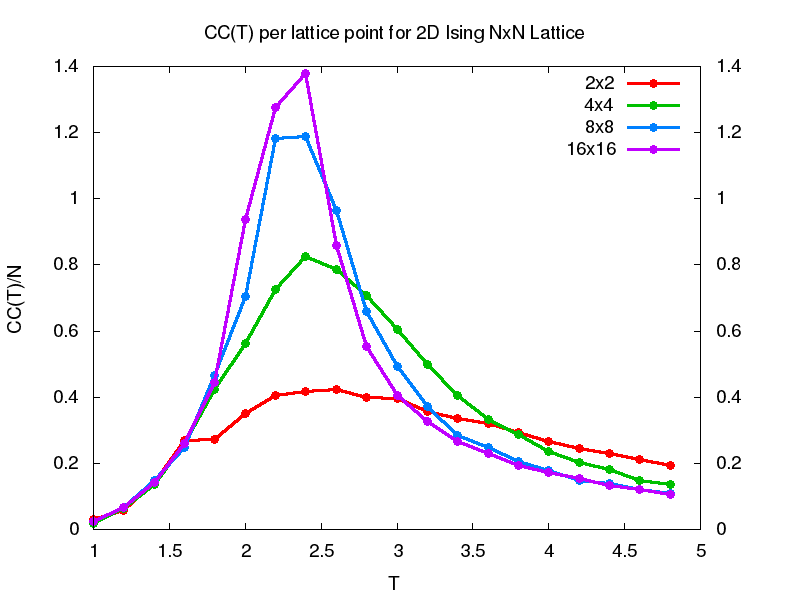
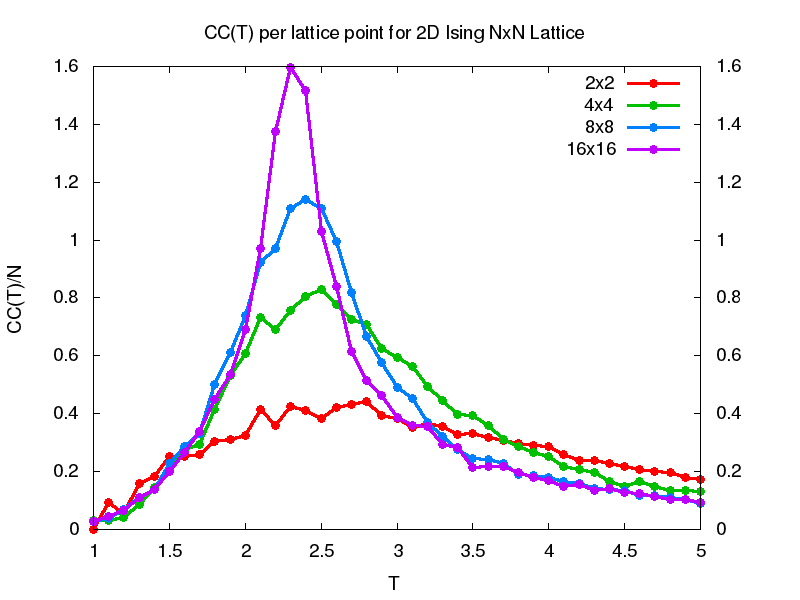
Travelers: some important changes: 1) change of function MC_simulation(...,) new parameter introduced: enum field ISING_METHOD_TYPE which allows to choose between METHOD_METROPOLIS or METHOD_WOLFF. The METHOD_METROPOLIS is default value. 2) added new function cycle() which proper algorithm for given

diff --git a/IsingModelSimulations5_2/Ising2D.cpp b/IsingModelSimulations5_2/Ising2D.cpp
@@ -112,14 +112,85 @@ vector<short> Ising2D::Metropolis_cycle() {
     return S; //The state of the system after one lattice sweep is returned
 }
 
+vector<short> Ising2D::Wolff_cycle(){
+    
+    // cout << "Not implemented::Ising2D::Wolff_cycle" << endl;
+    /* Domain : Monte Carlo simulation
+     * Perform N Wolff updates of cluster of spins 
+     * i.e. one MC cycle or sweep*/
+    int* border = new int[N];
+    int bindex = 0;
+    int oldspin, newspin;
+    double padd = 1 - exp(-2 / T); //probability of adding a site to border
+    int site, siteL, siteR, siteU, siteD,site_i,site_j;
+    
 
-void Ising2D::MC_simulation(int therm_t, int prod_t, int measure_f) {
+    for (int i = 0; i < N; i++) {
+
+        site_i = (int) (nx * RNG::drandom(seed2));
+        site_j = (int) (nx * RNG::drandom(seed2));
+        site  = To2D(site_i,site_j);
+        
+        // periodic representation
+        siteL = To2D((site_i - 1 + nx)%nx,site_j); 
+        siteR = To2D((site_i + 1     )%nx,site_j); 
+        siteD = To2D(site_i,(site_j- 1 + nx)%nx); 
+        siteU = To2D(site_i,(site_j+1      )%nx);         
+        
+        bindex = 0;
+        border[bindex] = site;        
+        oldspin =  S[site];
+        newspin = -S[site];
+        S[site] = newspin;
+
+        while (bindex >= 0) {
+            site = border[bindex--];
+            site_i = Xfrom2D(site);
+            site_j = Yfrom2D(site);
+            
+            siteL = To2D((site_i - 1 + nx)%nx,site_j); 
+            if (S[siteL] == oldspin)
+                if (RNG::drandom(seed2) < padd) {                    
+                    border[++bindex] = siteL;
+                    S[siteL] = newspin;
+                }
+           
+            siteR = To2D((site_i + 1     )%nx,site_j); 
+            if (S[siteR] == oldspin)
+                if (RNG::drandom(seed2) < padd) {                    
+                     border[++bindex] = siteR;
+                    S[siteR] = newspin;
+                }
+            
+            siteD = To2D(site_i,(site_j- 1 + nx)%nx);
+            if (S[siteD] == oldspin)
+                if (RNG::drandom(seed2) < padd) {
+                    border[++bindex] = siteD;                    
+                    S[siteD] = newspin;
+                }
+           
+            siteU = To2D(site_i,(site_j+1      )%nx);        
+            if (S[siteU] == oldspin)
+                if (RNG::drandom(seed2) < padd) {                    
+                    border[++bindex] = siteU;
+                    S[siteU] = newspin;
+                }
+        }
+    }
+    
+    delete[] border;
+    return S;
+    
+}
+
+
+void Ising2D::MC_simulation(int therm_t, int prod_t, int measure_f,ISING_METHOD_TYPE mt) {
     /* Domain : Metropolis simulation of Ising 2d model
      * Perform desired number of MC cycles
      * therm_t = thermalization cycles
      * prod_t  = production cycles
      * Store raw results (states of the chain) in the disk file. */
-
+    ising_method_type = mt;
     RNG::initializeRNG(seed1); // initializes integer random number generator
     
 //    cout << "----------------------------------------" << endl;
@@ -132,7 +203,7 @@ void Ising2D::MC_simulation(int therm_t, int prod_t, int measure_f) {
     //*** INITIAL MC CYCLES ***
     //Thermalization of initial non-equilibrium state.
     for (int t = 0; t < therm_t; t++) {
-        Metropolis_cycle();
+        cycle();
     }
 //    cout << "Thermalization done..." << endl;
     //SOME LOCAL VARIABLES; ADD NEW WHEN NECESSARY
@@ -153,11 +224,11 @@ void Ising2D::MC_simulation(int therm_t, int prod_t, int measure_f) {
     int progress = 0;
     for (int t = 0; t < prod_t; t++) {
         if (!(t % measure_f)) {
-            s = Metropolis_cycle();
+            s = cycle();
             for (int i = 0; i < N; i++)
                 DATA << s[i] << " ";
         } else
-            Metropolis_cycle();
+                cycle();
         /*
          Please make copy of this file (Ising5_2.cpp)
          */

diff --git a/IsingModelSimulations5_2/Ising5_2.cpp b/IsingModelSimulations5_2/Ising5_2.cpp
@@ -25,10 +25,10 @@
  *** HANG BACK THE FUNCTIONS YOU HAVE CREATED ON OUR EXCHANGE BLACKBOARD.*/
 
 
-#include<stack> //LIFO (Last In First Out) container for Wolff MC algorithm
+
 
 #include "Ising5_2.h"
-#include "Tools.h"
+//#include "Tools.h"
 
 
 
@@ -51,8 +51,9 @@ Ising::Ising(int NN, double TT, double hh, double p, int maxGd, int maxTsep) {
     N = NN; //set length of the chain
     T = TT; //set temperature
     h = hh; //set magnetic field
-    maxGdist = maxGd;
+    maxGdist          = maxGd;
     maxTimeseparation = maxTsep;
+    ising_method_type      = METHOD_METROPOLIS; // default method for calulation
 
     //INITIALISATIONS 
     //***ADD OTHER VARIABLES AND INITIALISATIONS WHEN NECESSARY 
@@ -89,6 +90,7 @@ Ising::Ising(int NN, double TT, double hh, double p, int maxGd, int maxTsep) {
     }
 
 }
+
 
 Ising::~Ising() {
 }
@@ -130,7 +132,7 @@ vector<short> Ising::Metropolis_cycle() {
 }
 
 
-void Ising::Wolff_cycle() {
+vector<short> Ising::Wolff_cycle() {
     /* Domain : Monte Carlo simulation
      * Perform N Wolff updates of cluster of spins 
      * i.e. one MC cycle or sweep*/
@@ -169,25 +171,35 @@ void Ising::Wolff_cycle() {
 
         }
     }
+    return S;
+}
+
+vector<short> Ising::cycle(){
+
+    switch(ising_method_type){
+        case  METHOD_METROPOLIS: return Metropolis_cycle();break;
+        case  METHOD_WOLFF:      return Wolff_cycle();break;
+        default: return Metropolis_cycle();
+    }
+    
 }
 
 
 
-
-
-void Ising::MC_simulation(int therm_t, int prod_t, int measure_f) {
+void Ising::MC_simulation(int therm_t, int prod_t, int measure_f,ISING_METHOD_TYPE mt) {
     /* Domain : Metropolis simulation of Ising 1d model
      * Perform desired number of MC cycles
      * therm_t = thermalization cycles
      * prod_t  = production cycles
      * Store raw results (states of the chain) in the disk file. */
 
+    ising_method_type = mt;    
     RNG::initializeRNG(seed1); // initializes integer random number generator
 
     //*** INITIAL MC CYCLES ***
     //Thermalization of initial non-equilibrium state.
     for (int t = 0; t < therm_t; t++) {
-        Metropolis_cycle();
+        cycle();
     }
 
     //SOME LOCAL VARIABLES; ADD NEW WHEN NECESSARY
@@ -207,11 +219,11 @@ void Ising::MC_simulation(int therm_t, int prod_t, int measure_f) {
     vector<short> s(N, 0);
     for (int t = 0; t < prod_t; t++) {
         if (!(t % measure_f)) {
-            s = Metropolis_cycle();
+            s = cycle();
             for (int i = 0; i < N; i++)
                 DATA << s[i] << " ";
         } else
-            Metropolis_cycle();
+            cycle();
         /*
          Please make copy of this file (Ising5_2.cpp)
          */
@@ -286,7 +298,7 @@ double Ising::CC() {
     int n=0;
     for (int t = 0; t < 100000; t++) {        
         
-            Metropolis_cycle();
+            cycle();
             double ee = E();            
             meanE  += ee;
             meanEsq+= ee*ee;

diff --git a/IsingModelSimulations5_2/Ising5_2.h b/IsingModelSimulations5_2/Ising5_2.h
@@ -22,8 +22,8 @@
 #include <cstring>		// Includes c_strings for file names
 #include <cmath>
 #include <iomanip>
+#include<stack> //LIFO (Last In First Out) container for Wolff MC algorithm
 #include "RNG.h"
-
 
 using namespace std;
 
@@ -38,12 +38,16 @@ enum ISING_ERROR_TYPE{
     ERROR_CC, // calculate error of specific heat
     ERROR_OP  // calculate error of order parameter - op
 };
-
+// enum filed allow to chose which method to use
+enum ISING_METHOD_TYPE{
+    METHOD_METROPOLIS,
+    METHOD_WOLFF
+};
     
 class Ising {
 public:
     Ising(){};
-    Ising(int NN,double TT, double hh, double p, int maxGd, int maxTsep); //Constructor of the class
+    Ising(int NN,double TT, double hh, double p, int maxGd, int maxTsep); //Constructor of the class    
     virtual ~Ising();
     
     //***Ising spins chain and environmental parameters
@@ -108,8 +112,9 @@ public:
     
 //*** MONTE CARLO ENGINS, MC WRAPPER, SOME MC PARAMETERS 
     virtual vector<short> Metropolis_cycle();
-    void Wolff_cycle();
-    virtual void MC_simulation(int therm_t, int prod_t, int measure_f);
+    virtual vector<short> Wolff_cycle();
+    vector<short> cycle(); // performs the Metropolis_cycle or Wolff_cycle depending on ising_method_type value
+    virtual void MC_simulation(int therm_t, int prod_t, int measure_f,ISING_METHOD_TYPE mt = METHOD_METROPOLIS);
     int measure_f;      //frequency of measures, indicate number of MC cycles separating two consecutive measures
     int therm_t;        //thermalization time = number of initial cycles to thermalize (equilibrate) the initial state
     
@@ -120,6 +125,7 @@ public:
 
     int nb_rejected;
     double rejected;
+    ISING_METHOD_TYPE ising_method_type;
     
 
 };

diff --git a/IsingModelSimulations5_2/Tests/IsingTestCC2D.h b/IsingModelSimulations5_2/Tests/IsingTestCC2D.h
@@ -35,9 +35,9 @@ class IsingTestCC2D : public IsingTest {
         //SIMULATION INPUT DATA
         int chainLength      = 2;        
         double magneticField = 0.0;
-        int therm_t          = 1000;   //thermalization time
+        int therm_t          =  50;   //thermalization time
         int measure_f        = 1;     //measure frequency
-        int prod_t           =10000;  //productiontime
+        int prod_t           =1000;  //productiontime
         int maxGdist         = 10;     //domain of correlation function extends from 0 to maxGdist-1
         int maxTsep          = 2;
         double initState     = 0.7;    //values between 0.5 and 1.0
@@ -45,7 +45,7 @@ class IsingTestCC2D : public IsingTest {
                 
         vector<vector<double> > dataNxN[4];
         vector<double> dataT;
-        for(double T = 1.0 ; T < 5.0 ; T += 0.2 ){ 
+        for(double T = 1.0 ; T < 5.0 ; T += 0.1 ){ 
             dataT.push_back(T);
         }
         // ---------------------------------------------------------
@@ -59,7 +59,7 @@ class IsingTestCC2D : public IsingTest {
                 double T = dataT[t];
                 cout << "T=" << T << "\t:";
                 Ising2D lattice2d(chainLength, T, magneticField, initState, maxGdist, maxTsep);        
-                lattice2d.MC_simulation(therm_t, prod_t, measure_f);
+                lattice2d.MC_simulation(therm_t, prod_t, measure_f,METHOD_WOLFF);
                 double error = lattice2d.ERROR(gettotalFname().c_str(), ERROR_CHI);
                 double cc    = lattice2d.CC(gettotalFname().c_str());                
                 vector<double> data;

diff --git a/IsingModelSimulations5_2/Tests/IsingTestM2D.h b/IsingModelSimulations5_2/Tests/IsingTestM2D.h
@@ -50,7 +50,7 @@ class IsingTestM2D : public IsingTest {
                 
         vector<double> dataNxN[4];
         vector<double> dataT;
-        for(double T = 1.0 ; T < 5.0 ; T += 0.2 ){ 
+        for(double T = 1.0 ; T < 5.0 ; T += 0.1 ){ 
             dataT.push_back(T);
         }
         // ---------------------------------------------------------
@@ -64,7 +64,7 @@ class IsingTestM2D : public IsingTest {
                 double T = dataT[t];
                 cout << "T=" << T << "\t:";
                 Ising2D lattice2d(chainLength, T, magneticField, initState, maxGdist, maxTsep);        
-                lattice2d.MC_simulation(therm_t, prod_t, measure_f);
+                lattice2d.MC_simulation(therm_t, prod_t, measure_f,METHOD_METROPOLIS);
                 double M = lattice2d.order_parameter(gettotalFname().c_str());
                 dataNxN[i].push_back(M);
             }// end of for            
@@ -77,7 +77,7 @@ class IsingTestM2D : public IsingTest {
         for(int t = 0 ; t < dataT.size() ; t++ ){
              data_out << std::scientific << dataT[t] << "\t";   
              for(int i = 0; i < 4 ; i++){
-                 data_out << dataNxN[i][t] << "\t";
+                 data_out << fabs(dataNxN[i][t]) << "\t";
              }
              data_out << endl;
         }

diff --git a/IsingModelSimulations5_2/IsingMain5_2.cpp b/IsingModelSimulations5_2/IsingMain5_2.cpp
@@ -39,8 +39,8 @@ int main(int argc, char** argv) {
     
     // IsingTestChi isingTestChi;     //  Ising1D test of Chi in function of T
     // IsingTestError isingTestError; //  Ising1D test of ERROR funtion for Chi for different prod_t
-    // IsingTestCC2D isingTestCC2D;   //  Ising2D test of CC in function of T for different lattices
-     IsingTestM2D isingTestM2D;     //  Ising2D test of M in function of T for different lattices
+     IsingTestCC2D isingTestCC2D;   //  Ising2D test of CC in function of T for different lattices
+    // IsingTestM2D isingTestM2D;     //  Ising2D test of M in function of T for different lattices
     
      // 
      // ----------------------------------------------------------

diff --git a/IsingModelSimulations5_2/Ising2D.h b/IsingModelSimulations5_2/Ising2D.h
@@ -11,6 +11,9 @@
 #include "Ising5_2.h"
 
 #define To2D(i,j)( i + (j)*nx )
+#define Yfrom2D(site)( int(site/nx) ) // map from 1D array to y coordinate of 2D array
+#define Xfrom2D(site)(  (site%nx) )   // map from 1D array to x coordinate of 2D array
+
 
 class Ising2D : public Ising {
 public:
@@ -21,7 +24,8 @@ public:
     
 //*** MONTE CARLO ENGINS, MC WRAPPER, SOME MC PARAMETERS     
     vector<short> Metropolis_cycle();
-    void MC_simulation(int therm_t, int prod_t, int measure_f);
+    vector<short> Wolff_cycle();
+    void MC_simulation(int therm_t, int prod_t, int measure_f,ISING_METHOD_TYPE mt = METHOD_METROPOLIS);
 
 
 private:
